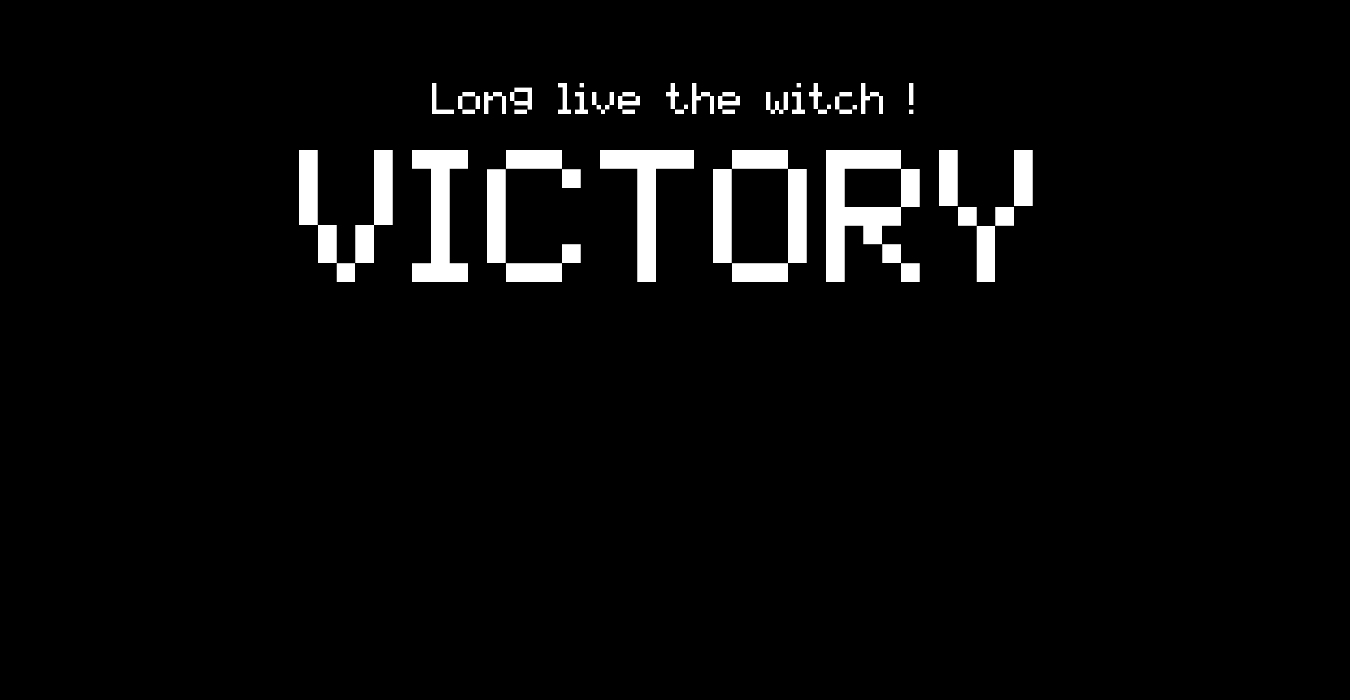
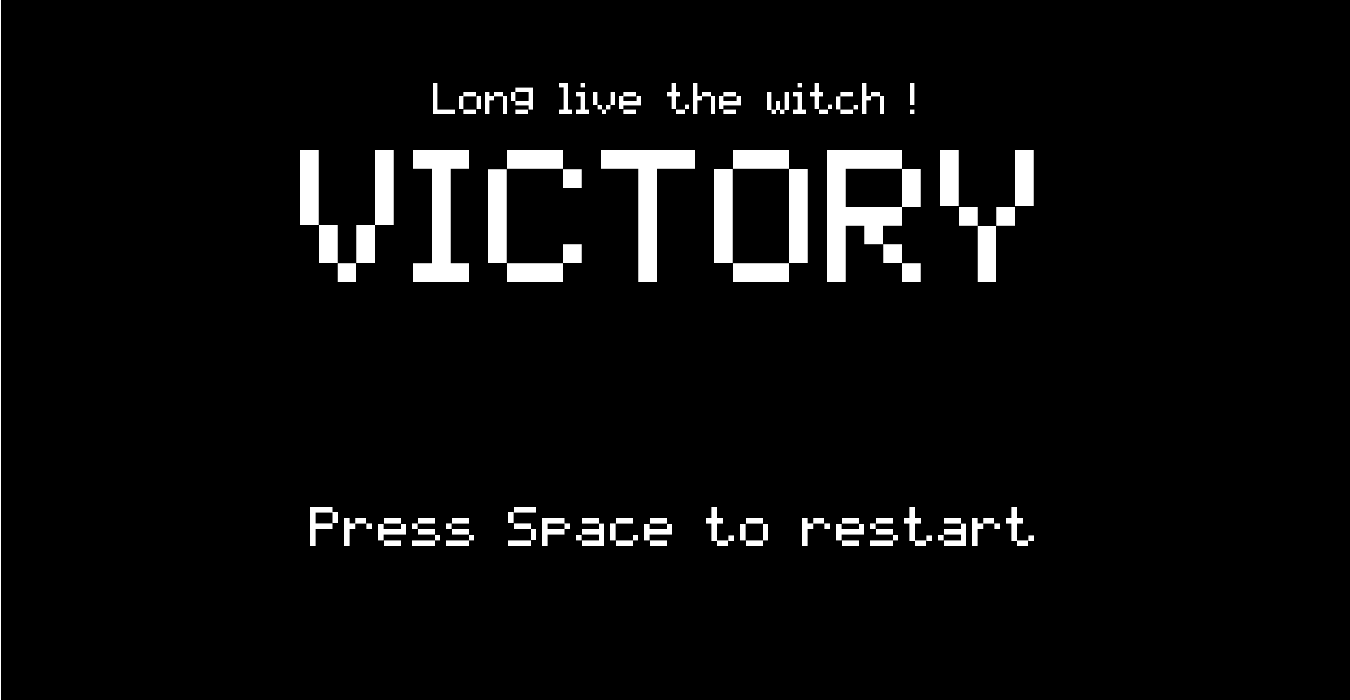
Space to restart, corrections par ci, par là, ennemiOmbre

diff --git a/Graphique/HazelGame.cc b/Graphique/HazelGame.cc
@@ -41,10 +41,6 @@ void HazelGame::initialiseSceneJeu(){
     ennemisTues = 0;
     nbMonstresATuer = 5;
 
-//    labCompteur = new QLabel();
-//    labCompteur->setNum(ennemisTues);
-//    sceneJeu->addWidget(labCompteur);
-
     //On place l'image des pouvoirs juste à côté des barres de vie et de mana
     basic->setPos(sprite->getHPMax()->x() + 300, sprite->getHPMax()->y() + 20);
 
@@ -81,6 +77,27 @@ void HazelGame::mouseMoveEvent(QMouseEvent *event)
     sprite->setPos(x,y);
     collisionsObjets();
     collisionsMonstres();
+}
+
+//Transformation du joueur avec un clic gauche
+//Changement d'element avec un clic droit
+void HazelGame::mousePressEvent(QMouseEvent *event){
+    Joueur* j = sprite->getJoueur();
+    Pouvoir* p = sprite->getPicto();
+
+    switch(event->button()){
+        case Qt::LeftButton:
+            joueurTransforme();
+            break;
+        case Qt::RightButton:
+            j->changerElement();
+            p->changerPicto(j->getAttaque());
+            if(j->estTransforme()) sprite->changerSprite(j->getAttaque());
+            break;
+        default:
+            std::cout << "Me and Michael" << std::endl;
+        break;
+    }
 }
 
 //Ajoute un objet Vie dans la scene à la position (x,y)
@@ -195,26 +212,21 @@ void HazelGame::collisionsMonstres(){
             if(persoJoueur->estTransforme()){//Le joueur attaque
                 persoJoueur->attaque(monstre);
                 monstres[i]->setMonstreHP(monstre->getVie());
-                std::cout << monstre->toString() << std::endl;
-                std::cout << "Attaque contre ennemi" << std::endl;
             }
             else{//Le Monstre attaque
                 monstre->attaque(persoJoueur);
                 sprite->setHP(persoJoueur->getVie());
-                std::cout << persoJoueur->toString() << std::endl;
-                std::cout << "Attaque contre joueur" << std::endl;
                 if(persoJoueur->estMort()){
                     finDePartie(0);
                     return;
                 }
-                else if(!persoJoueur->estInvincible()){ //On rend le joueur invincible pendant 2 secondes
+                else if(!persoJoueur->estInvincible()){ //On rend le joueur invincible pendant 1 seconde
                     joueurInvincible();
                     QTimer::singleShot(1000, this, SLOT(joueurInvincible()));
                 }
             }
         }
     }
-
 
     effacerMorts();
 }
@@ -278,7 +290,7 @@ void HazelGame::spawnEnnemis(){
     if( monstres.size() >= 4 /*|| ((ennemisTues + monstres.size() + 1) > nbMonstresATuer)*/ ) return; //Pas plus de quatre monstres à la fois
 
     srand(time(NULL));
-    int spawn = rand() % 2;
+    int spawn = rand() % 3;
     int position = rand() % 3;
     Monstre* M;
     switch(spawn) {
@@ -344,32 +356,11 @@ void HazelGame::remplissageMana(){
     }
 }
 
-//Transformation du joueur avec un clic gauche
-//Changement d'element avec un clic droit
-void HazelGame::mousePressEvent(QMouseEvent *event){
-    Joueur* j = sprite->getJoueur();
-    Pouvoir* p = sprite->getPicto();
-
-    switch(event->button()){
-        case Qt::LeftButton:
-            joueurTransforme();
-            break;
-        case Qt::RightButton:
-            j->changerElement();
-            p->changerPicto(j->getAttaque());
-            if(j->estTransforme()) sprite->changerSprite(j->getAttaque());
-            break;
-        default:
-            std::cout << "Me and Michael" << std::endl;
-        break;
-    }
-}
-
 //Declenche la fin de la partie
 void HazelGame::finDePartie(int i){
     QPixmap ecranOver("../Ressources/ecranGameOver.png");
     QPixmap ecranVictoire("../Ressources/ecranVictoire.png");
-    //QPushButton* button = new QPushButton("Continue ?");
+
     switch(i){
         case 0:
             std::cout << "Vous avez perdu :(" << std::endl;
@@ -377,8 +368,6 @@ void HazelGame::finDePartie(int i){
             sceneGameOver = new QGraphicsScene(0,0,1350,700);
             sceneGameOver->setBackgroundBrush(ecranOver.scaled(1350,700,Qt::IgnoreAspectRatio,Qt::SmoothTransformation));
             desactiveToutJeu();
-            // sceneGameOver->addWidget(button);
-            // connect(button, SIGNAL(clicked()), this, SLOT(rejouer()));
             setScene(sceneGameOver);
             QTimer::singleShot(2000, this, SLOT(rejouer()));
             break;
@@ -388,9 +377,6 @@ void HazelGame::finDePartie(int i){
             sceneGameOver = new QGraphicsScene(0,0,1350,700);
             sceneGameOver->setBackgroundBrush(ecranVictoire.scaled(1350,700,Qt::IgnoreAspectRatio,Qt::SmoothTransformation));
             desactiveToutJeu();
-            //sceneGameOver->addWidget(button);
-            //connect(button, SIGNAL(clicked()), this, SLOT(rejouer()));
-            QTimer::singleShot(3000, this, SLOT(rejouer()));
             setScene(sceneGameOver);
             break;
     }
@@ -409,13 +395,24 @@ void HazelGame::desactiveToutJeu(){
 
     //On retire tous les monstres
     int nbMonstres = monstres.size();
-    for(int i = 0; i < nbMonstres; i++) monstres.erase(monstres.begin()+i);
+    for(int i = 0; i < nbMonstres; i++){
+        sceneJeu->removeItem(monstres[i]->getMonstreHPMax());
+        sceneJeu->removeItem(monstres[i]->getMonstreHP());
+        sceneJeu->removeItem(monstres[i]);
+        monstres.erase(monstres.begin()+i);
+    }
 
     //On retire tous les objets
     int nbObjets = objetsVie.size();
-    for(int i = 0; i < nbObjets; i++) objetsVie.erase(objetsVie.begin()+i);
+    for(int i = 0; i < nbObjets; i++){
+        sceneJeu->removeItem(objetsVie[i]);
+        objetsVie.erase(objetsVie.begin()+i);
+    }
     nbObjets = objetsMana.size();
-    for(int i = 0; i < nbObjets; i++) objetsMana.erase(objetsMana.begin()+i);
+    for(int i = 0; i < nbObjets; i++){
+        sceneJeu->removeItem(objetsMana[i]);
+        objetsMana.erase(objetsMana.begin()+i);
+    }
 
     //On remet le personnage du joueur par défaut
     Joueur* j = sprite->getJoueur();
@@ -445,4 +442,17 @@ void HazelGame::rejouer(){
     ennemisTues = 0;
     setScene(sceneJeu);
     reactiveToutJeu();
+}
+
+void HazelGame::keyPressEvent(QKeyEvent *event){
+    if(scene() == sceneGameOver){
+        switch(event->key()){
+            case Qt::Key_Space:
+                rejouer();
+                break;
+            default:
+                break;
+        }
+    }
+
 }

diff --git a/Jeu/Joueur.cc b/Jeu/Joueur.cc
@@ -32,7 +32,6 @@ Joueur::Joueur(int v, int m){//:Personnage(v){
 }
 
 //Permet au Joueur d'attaquer le Monstre M
-//Si le joueur utilise SOIN, le monstre recupère 20 pts de vie
 //Si le joueur utilise une attaque correspondante à la force du Monstre, alors
 //le monstre recupère 2 pts de vie, si l'attaque correspond à sa faiblesse, 60 pts de vie
 //Si elle ne correspond à aucun des deux, 20 pts de vie
@@ -51,7 +50,6 @@ void Joueur::attaque(Personnage *p){
             p->perdVie(20);
         }
 
-   // std::cout << p->toString() << std::endl;
 }
 
 //Permet au joueur de changer le type d'élèment selectionné actuellement

diff --git a/Jeu/Monstre.cc b/Jeu/Monstre.cc
@@ -17,3 +17,12 @@ void Monstre::attaque(Personnage *p){
         j->perdVie(15);
     }
 }
+
+std::string Monstre::toString()
+    {
+        std::stringstream str;
+        str << "=========================" << std::endl;
+        str << "L'ennemi a " << vie << " sur " << vieMax << std::endl;
+        str << "=========================" << std::endl;
+        return str.str();
+    }

diff --git a/Jeu/Ombre.cc b/Jeu/Ombre.cc
@@ -1,6 +1,7 @@
 #include "Ombre.hh"
 #include <stdlib.h>     /* srand, rand */
 #include <time.h>       /* time */
+#include <sstream>
 
 Ombre::Ombre(){//:Monstre(200, SOIN, PHYSIQUE, "NOIRE"){}
     srand (time(NULL));

diff --git a/Jeu/Glace.cc b/Jeu/Glace.cc
@@ -1,6 +1,7 @@
 #include "Glace.hh"
 #include <stdlib.h>     /* srand, rand */
 #include <time.h>       /* time */
+#include <sstream>
 
 Glace::Glace(){//:Monstre(200, FEU, GLACE, "BLEUE"){
    srand (time(NULL));
